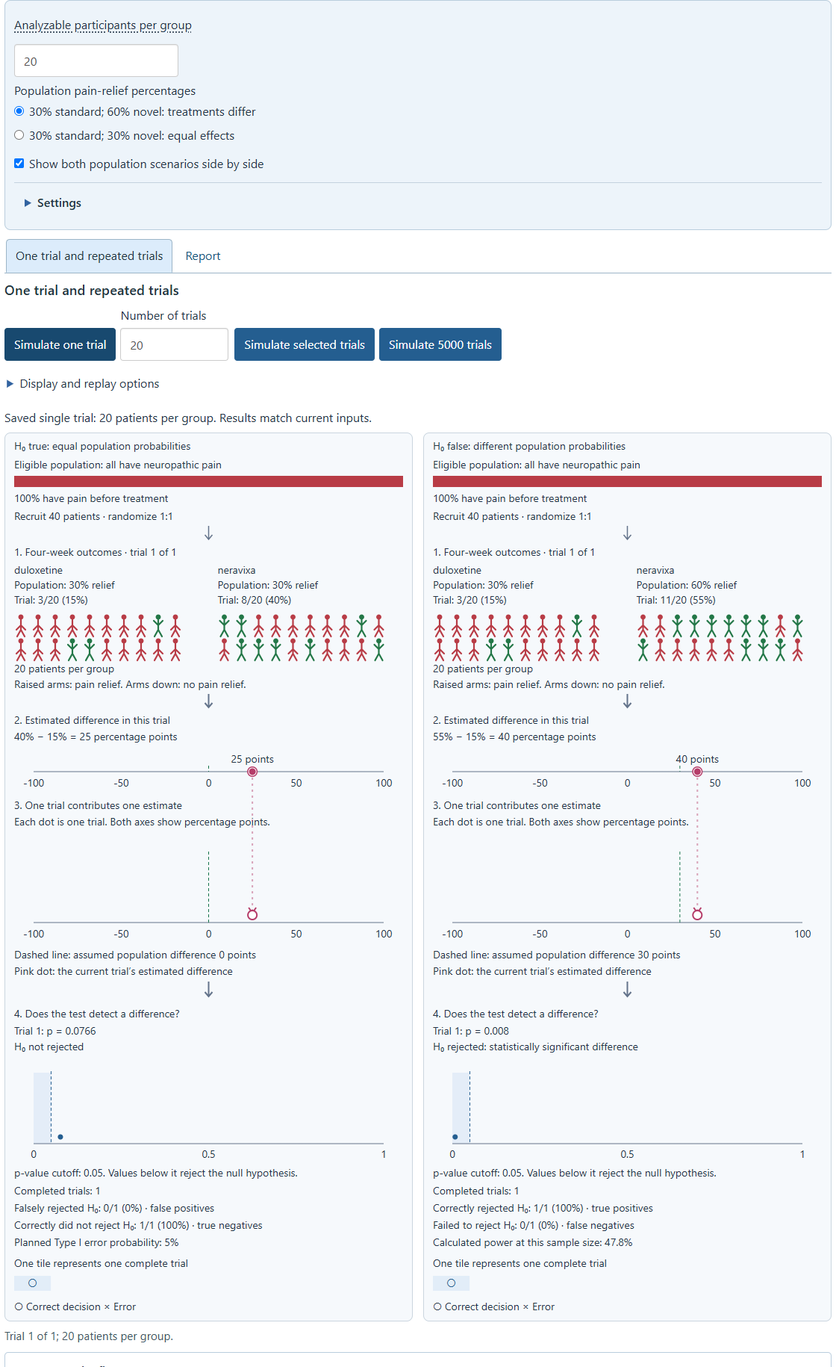
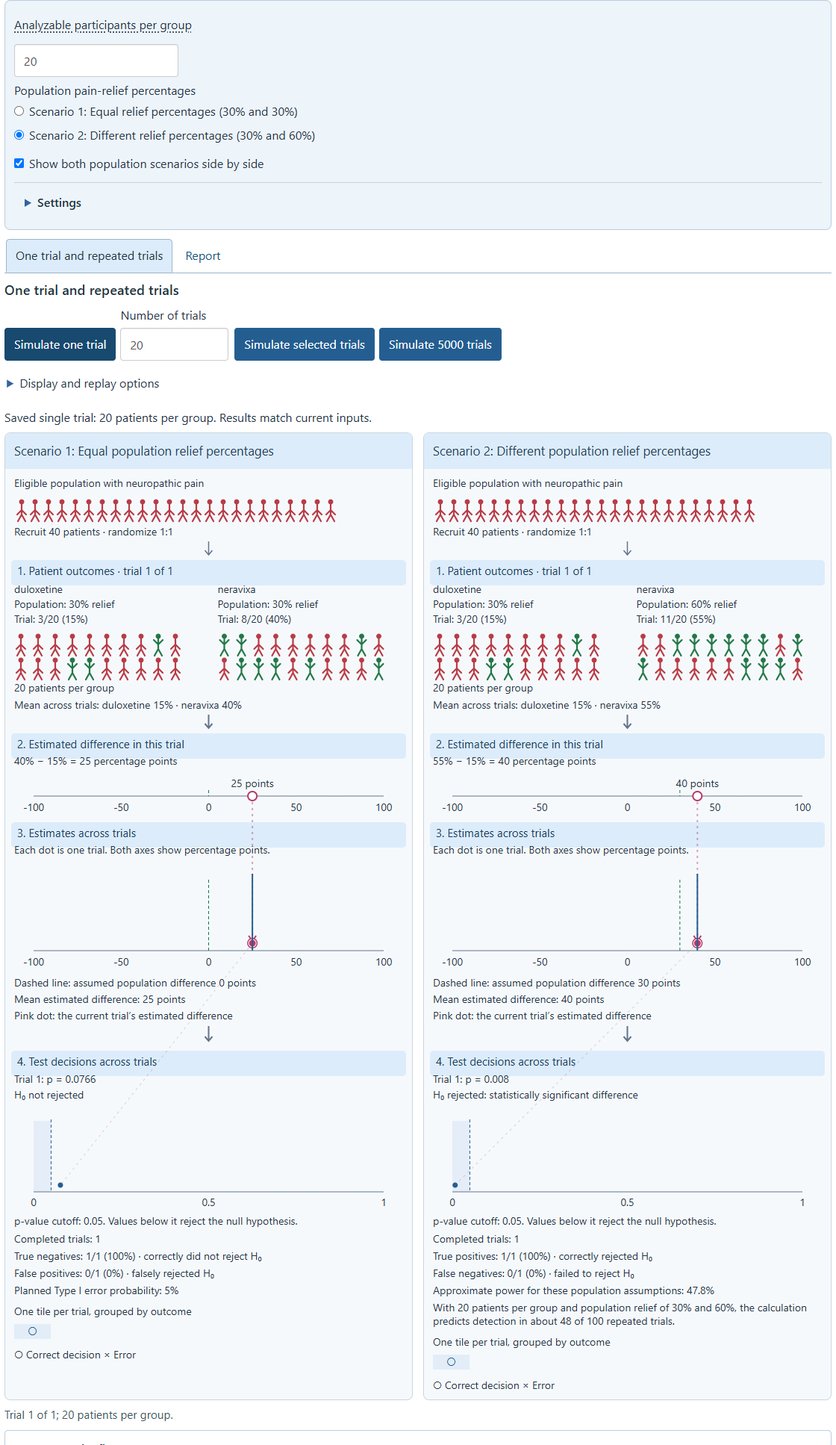
Unify Chapter 1 scenario figures and trial animation

diff --git a/apps/power_explorer/www/sampling-journey.js b/apps/power_explorer/www/sampling-journey.js
@@ -1,10 +1,11 @@
 /* Original implementation for this tutorial. MIT licensed. */
 (() => {
-  let data, index = 0, elapsed = 0, last = 0, raf, paused = false, stale = false, generation = 0, drawnIndex = -1, frameProgress = 0;
+  let data, index = 0, elapsed = 0, last = 0, raf, paused = false, stale = false, generation = 0, drawnIndex = -1, frameProgress = 0, drawnDecision = false;
   const el = id => document.getElementById(id);
   const ns = 'http://www.w3.org/2000/svg';
   const pct = x => `${Math.round(x * 1000) / 10}%`;
-  const point = x => 45 + (x + 1) * 205;
+  const average = values => values.reduce((a,b)=>a+b,0)/values.length;
+  const scenarioName = source => isNull(source)?'Scenario 1: Equal population relief percentages':'Scenario 2: Different population relief percentages';
   function node(svg, tag, attrs, text) {
     const n = document.createElementNS(ns, tag);
     Object.entries(attrs).forEach(([k,v]) => n.setAttribute(k,v));
@@ -19,31 +20,34 @@
   const decisionCorrect=(source,reject)=>isNull(source)?!reject:reject;
   function decisionSummary(source,decisions) {
     const n=decisions.length,rejected=decisions.filter(Boolean).length;
-    const fraction=k=>`${k}/${n} (${pct(k/n)})`;
+    const fraction=k=>n?`${k}/${n} (${pct(k/n)})`:'0/0';
     return isNull(source)?[
-      `Falsely rejected H₀: ${fraction(rejected)} · false positives`,
-      `Correctly did not reject H₀: ${fraction(n-rejected)} · true negatives`
+      `True negatives: ${fraction(n-rejected)} · correctly did not reject H₀`,
+      `False positives: ${fraction(rejected)} · falsely rejected H₀`
     ]:[
-      `Correctly rejected H₀: ${fraction(rejected)} · true positives`,
-      `Failed to reject H₀: ${fraction(n-rejected)} · false negatives`
+      `True positives: ${fraction(rejected)} · correctly rejected H₀`,
+      `False negatives: ${fraction(n-rejected)} · failed to reject H₀`
     ];
   }
+  function summary(source,progress) {
+    const complete=!!source.batch || (index===source.trials.length-1 && progress===1);
+    const count=source.batch?source.batch.estimates.length:index+(progress>=.9?1:0);
+    const trials=source.trials.slice(0,count);
+    return {complete,count,estimates:source.batch?source.batch.estimates:trials.map(t=>t.estimate),
+      decisions:source.batch?source.batch.reject:trials.map(t=>t.reject),
+      rates:source.batch?source.batch.relief_rates:[0,1].map(g=>trials.map(t=>t.counts[g]/source.n))};
+  }
   function interpretation(source,progress) {
-    const t=source.trials[index],labels=source.labels||['Standard','Novel'];
-    const truth=isNull(source);
+    const t=source.trials[index],labels=source.labels||['Standard','Novel'],info=summary(source,progress);
     const first=`Trial ${index+1}: ${t.counts[0]} of ${source.n} patients achieved pain relief with ${labels[0]}, and ${t.counts[1]} of ${source.n} with ${labels[1]}. The estimated difference is ${Math.round(t.estimate*1000)/10} percentage points.`;
-    if(!source.batch && source.trials.length===1)
-      return first+` Its p value ${pText(t.p_value)}. `+(truth?
-        (t.reject?'H₀ is falsely rejected: a false positive.':'H₀ is correctly not rejected: a true negative.'):
-        (t.reject?'H₀ is correctly rejected: a true positive.':'H₀ is not rejected despite a population difference: a false negative.'));
-    const trials=source.batch?source.batch.reject:source.trials.slice(0,index+1).map(t=>t.reject);
-    const detected=trials.filter(Boolean).length;
-    return `Across ${trials.length} trials with ${source.n} patients per group, `+
-      `${detected} detect a difference (${pct(detected/trials.length)}) and ${trials.length-detected} do not (${pct(1-detected/trials.length)}). `+
-      (truth?'These detections are false positives because the population relief percentages are equal.':
-      'These detections are true positives. Their percentage across many trials estimates power at the selected population difference and sample size.')+
-      (truth?` The planned Type I error probability is ${pct(source.alpha)}.`:` Calculated power for these assumptions is ${pct(source.expected)}.`)+
-      (source.batch?' The patient figures show the first trial in this batch.':' The patient figures show the latest displayed trial.');
+    if(!info.count)return first+' The moving point connects this trial’s estimate to its p value and test decision.';
+    const decisions=decisionSummary(source,info.decisions).join('. ')+'.';
+    if(info.count===1 && !source.batch)return first+` Its p value ${pText(t.p_value)}. `+decisions;
+    const mean=info.complete?` The mean estimated difference is ${Math.round(average(info.estimates)*1000)/10} percentage points. `+
+      (info.rates?`Mean relief across these trials is ${pct(average(info.rates[0]))} with ${labels[0]} and ${pct(average(info.rates[1]))} with ${labels[1]}. `:''):'';
+    const benchmark=isNull(source)?`The planned Type I error probability is ${pct(source.alpha)}.`:
+      `Approximate power is ${pct(source.expected)} for repeated trials with ${source.n} patients per group, population relief probabilities of ${pct(source.p0)} and ${pct(source.p1)}, and the selected test. The simulated true-positive percentage estimates the same repeated-trial probability.`;
+    return `Across ${info.count} completed trials with ${source.n} patients per group: `+decisions+mean+benchmark;
   }
   function draw(progress) {
     const host=el('sampling-journey');if(!host||!data)return;
@@ -54,10 +58,14 @@
     const sources=[data,data.comparison].filter(Boolean).sort((a,b)=>Number(!isNull(a))-Number(!isNull(b)));
     for(const source of sources) {
       const panel=document.createElement('div');panel.className='journey-scenario';host.append(panel);
-      drawInline(panel,progress,source);
+      const title=document.createElement('h3');title.className='journey-scenario-title';title.textContent=scenarioName(source);panel.append(title);
+      const chart=document.createElement('div');panel.append(chart);drawInline(chart,progress,source);
     }
-    if(el('journey-reading'))el('journey-reading').textContent=sources.map(source=>
-      (data.comparison?(isNull(source)?'Equal relief probabilities. ':'Different relief probabilities. '):'')+interpretation(source,progress)).join(' ');
+    const reading=el('journey-reading');
+    if(reading){reading.replaceChildren();reading.classList.toggle('journey-comparison',sources.length===2);
+      for(const source of sources){const section=document.createElement('section'),title=document.createElement('h4'),p=document.createElement('p');
+        title.textContent=scenarioName(source);p.textContent=interpretation(source,progress);section.append(title,p);reading.append(section);}}
+    drawnDecision=progress>=.9;
     drawnIndex=index;
   }
   const measureText = document.createElement('canvas').getContext('2d');
@@ -78,14 +86,24 @@
       }
       node(svg,'text',{x,y,style:'font-size:14px'},line); return y;
     }
-    const pain=data.event==='achieved pain relief', shown=Math.min(data.n,20);
-    let y=text(isNull(data)?'H₀ true: equal population probabilities':'H₀ false: different population probabilities',12,22);
-    y=text(pain?'Eligible population: all have neuropathic pain':'Eligible population before treatment',12,y+25);
-    node(svg,'rect',{x:12,y:y+10,width:width-24,height:15,fill:pain?colors.pain:colors.neutral,'data-population-bar':'true'});
-    y=text(pain?'100% have pain before treatment':'One outcome per participant',12,y+45);
-    y=text(`Recruit ${2*data.n} patients · randomize 1:1`,12,y+24);
+    function heading(label,y){
+      const band=node(svg,'rect',{x:8,y:y-20,width:width-16,height:34,rx:5,fill:'#dcecfb'});
+      const last=text(label,16,y,width-40);band.setAttribute('height',last-y+34);
+      const labelNode=svg.lastElementChild;labelNode.setAttribute('role','heading');labelNode.setAttribute('aria-level','4');labelNode.classList.add('journey-step-heading');return last;
+    }
+    function person(x,y,value,attrs={}) {
+      const color=value?colors.relief:colors.pain;
+      const g=node(svg,'g',{transform:`translate(${x} ${y})`,...attrs,stroke:color,fill:'none','stroke-width':2.2,'stroke-linecap':'round'});
+      node(g,'circle',{cx:0,cy:0,r:3.4,fill:color,stroke:'none'});
+      node(g,'path',{d:`M0 3.4V17 M0 17L-5 26 M0 17L5 26 ${value?'M-6 5L0 11L6 5':'M-6 17L0 11L6 17'}`});
+    }
+    const info=summary(data,progress),pain=data.event==='achieved pain relief', shown=Math.min(data.n,40);
+    let y=text(pain?'Eligible population with neuropathic pain':'Eligible population',12,24);
+    const populationCount=Math.min(24,Math.floor((width-30)/18));
+    for(let i=0;i<populationCount;i++)person(22+i*18,y+20,false,{'data-population-patient':i+1});
+    y=text(`Recruit ${2*data.n} patients · randomize 1:1`,12,y+65);
     node(svg,'path',{d:`M${width/2} ${y+8} v18 m-5 -6 l5 6 l5 -6`,fill:'none',stroke:colors.neutral,'stroke-width':1.5});
-    y=text(`1. ${pain?'Four-week':'Patient'} outcomes · trial ${index+1} of ${data.batch ? data.batch.estimates.length : data.trials.length}`,12,y+48);
+    y=heading(`1. Patient outcomes · trial ${index+1} of ${data.batch ? data.batch.estimates.length : data.trials.length}`,y+53);
     const cols=Math.max(4,Math.min(10,Math.floor((width/2-24)/23))), rows=Math.ceil(shown/cols);
     const top=y+24;
     let groupBottom=top;
@@ -94,26 +112,31 @@
       let groupY=text(labels[g],x,top,width/2-24);
       groupY=text(`Population: ${pct(g?data.p1:data.p0)} ${pain?'relief':'event'}`,x,groupY+20,width/2-24);
       groupY=text(`Trial: ${t.counts[g]}/${data.n} (${pct(t.counts[g]/data.n)})`,x,groupY+20,width/2-24);
-      values.slice(0,shown).forEach((v,i)=>{
-        const person=node(svg,'g',{transform:`translate(${x+9+(i%cols)*23} ${groupY+18+Math.floor(i/cols)*32})`,
-          'data-patient':i+1,'data-group':g,'data-outcome':v?'relief':'pain',stroke:v?colors.relief:colors.pain,fill:'none','stroke-width':2.2,'stroke-linecap':'round'});
-        node(person,'circle',{cx:0,cy:0,r:3.4,fill:v?colors.relief:colors.pain,stroke:'none'});
-        node(person,'path',{d:`M0 3.4V17 M0 17L-5 26 M0 17L5 26 ${v?'M-6 5L0 11L6 5':'M-6 17L0 11L6 17'}`});
-      });
-      groupBottom=Math.max(groupBottom,groupY+18+rows*32);
+      if(data.n<=40){
+        values.forEach((v,i)=>person(x+9+(i%cols)*23,groupY+18+Math.floor(i/cols)*32,v,
+          {'data-patient':i+1,'data-group':g,'data-outcome':v?'relief':'pain'}));
+        groupBottom=Math.max(groupBottom,groupY+18+rows*32);
+      }else{
+        const bw=width/2-30, relief=t.counts[g]/data.n;
+        const bar=node(svg,'g',{'data-outcome-bar':g,'data-relief-count':t.counts[g],'data-total':data.n});
+        node(bar,'rect',{x,y:groupY+18,width:bw,height:27,fill:colors.pain});
+        node(bar,'rect',{x,y:groupY+18,width:bw*relief,height:27,fill:colors.relief});
+        groupY=text(`${t.counts[g]} ${pain?'relief':'events'} · ${data.n-t.counts[g]} ${pain?'no relief':'no event'}`,x,groupY+66,width/2-24);
+        groupBottom=Math.max(groupBottom,groupY+8);
+      }
     });
     y=text(`${data.n} patients per group`,12,groupBottom+10);
-    y=text(pain?'Raised arms: pain relief. Arms down: no pain relief.':'Raised arms: event. Arms down: no event.',12,y+21);
-    if(data.n>shown)y=text(`First ${shown} shown per group. Counts include everyone.`,12,y+21);
+    if(info.complete && info.rates) y=text(`Mean across trials: ${labels[0]} ${pct(average(info.rates[0]))} · ${labels[1]} ${pct(average(info.rates[1]))}`,12,y+23);
     node(svg,'path',{d:`M${width/2} ${y+8} v18 m-5 -6 l5 6 l5 -6`,fill:'none',stroke:'#64748b','stroke-width':2});
-    y=text('2. Estimated difference in this trial',12,y+48);
+    y=heading('2. Estimated difference in this trial',y+53);
     y=text(`${pct(t.counts[1]/data.n)} − ${pct(t.counts[0]/data.n)} = ${Math.round(t.estimate*1000)/10} percentage points`,12,y+22);
     const axis1=y+42;
-    y=text(data.batch ? '3. Estimates across the full batch' : data.trials.length===1 ? '3. One trial contributes one estimate' : '3. Estimates from the repeated trials',12,axis1+50);
+    y=heading('3. Estimates across trials',axis1+55);
     y=text(data.batch ? `${data.batch.estimates.length} trials, each with ${data.n} patients per group` : 'Each dot is one trial. Both axes show percentage points.',12,y+22);
     const stackCounts={};
     data.trials.slice(0,index+1).forEach(t=>{const key=Math.round(t.estimate*1000000);stackCounts[key]=(stackCounts[key]||0)+1;});
     let axis2=y+Math.max(130,30+5*Math.max(...Object.values(stackCounts)));
+    const distributionAxis=axis2;
     const bins={},positions=[];
     for(let i=0;i<=index;i++){
       const v=data.trials[i].estimate,key=Math.round(v*1000000),level=bins[key]||0;
@@ -151,22 +174,27 @@
       node(svg,'line',{x1:x,x2:x,y1:axis1,y2:destination,stroke:'#b53c69','stroke-width':2,'stroke-dasharray':'3 5',opacity:.45});
       node(svg,'path',{d:`M${x-5} ${destination-10} L${x} ${destination-3} L${x+5} ${destination-10}`,fill:'none',stroke:'#b53c69','stroke-width':2});
       [axis1,destination].forEach(yy=>node(svg,'circle',{cx:x,cy:yy,r:6,fill:'white',stroke:'#b53c69','stroke-width':2}));
-      const phase=Math.max(0,Math.min(1,(progress-.35)/.5));
-      const moving=el('journey-motion').checked?(progress<.85?0:1):phase*phase*(3-2*phase);
+      const phase=Math.max(0,Math.min(1,(progress-.15)/.35));
+      const moving=el('journey-motion').checked?(progress<.5?0:1):phase*phase*(3-2*phase);
       node(svg,'circle',{cx:x,'data-moving-estimate':'true','data-motion-start':axis1,'data-motion-end':destination,cy:axis1+(destination-axis1)*moving,r:5,fill:'#b53c69',stroke:'white','stroke-width':1});
     }
     node(svg,'text',{x:Math.max(48,Math.min(width-48,x)),y:axis1-12,'text-anchor':'middle',style:'font-size:14px'},`${Math.round(t.estimate*1000)/10} points`);
+    if(info.complete && info.estimates.length){
+      const mean=average(info.estimates);
+      node(svg,'line',{x1:at(mean),x2:at(mean),y1:distributionAxis-103,y2:distributionAxis,stroke:colors.correct,'stroke-width':2,'data-mean-estimate':mean});
+    }
     y=text(`Dashed line: assumed population difference ${Math.round((data.p1-data.p0)*1000)/10} points`,12,axis2+48);
+    if(info.complete && info.estimates.length)y=text(`Mean estimated difference: ${Math.round(average(info.estimates)*1000)/10} points`,12,y+22);
     y=text(data.batch ? 'Pink dots: the first trial, included in this batch' : 'Pink dot: the current trial’s estimated difference',12,y+22);
     node(svg,'path',{d:`M${width/2} ${y+9} v20 m-5 -6 l5 6 l5 -6`,fill:'none',stroke:'#64748b','stroke-width':2});
-    y=text('4. Does the test detect a difference?',12,y+57);
-    const values=data.batch?data.batch.p_values:data.trials.slice(0,index+1).map(t=>t.p_value);
-    const decisions=data.batch?data.batch.reject:data.trials.slice(0,index+1).map(t=>t.reject);
+    y=heading('4. Test decisions across trials',y+62);
+    const values=data.batch?data.batch.p_values:data.trials.slice(0,info.count).map(t=>t.p_value);
+    const decisions=info.decisions;
     const detected=decisions.filter(Boolean).length, px=p=>38+p*(width-76), cutoff=px(data.alpha);
-    y=text(`Trial ${index+1}: p ${pText(t.p_value)}`,12,y+23);
-    y=text(t.reject?'H₀ rejected: statistically significant difference':'H₀ not rejected',12,y+21);
+    y=text(progress>=.9 || data.batch?`Trial ${index+1}: p ${pText(t.p_value)}`:'The same trial now contributes its p value',12,y+23);
+    y=text(progress>=.9 || data.batch?(t.reject?'H₀ rejected: statistically significant difference':'H₀ not rejected'):'Each trial produces one test decision',12,y+21);
     const pStacks={};values.forEach(p=>{const key=Math.round(p*1000);pStacks[key]=(pStacks[key]||0)+1;});
-    const pAxis=y+(data.batch?150:Math.max(125,30+7*Math.max(...Object.values(pStacks))));
+    const pAxis=y+(data.batch?150:Math.max(125,30+7*Math.max(1,...Object.values(pStacks))));
     node(svg,'rect',{x:38,y:pAxis-95,width:cutoff-38,height:95,fill:'#e4edf8'});
     if(data.batch) {
       const bins=Array(40).fill(0),correctBins=Array(40).fill(0);
@@ -182,11 +210,20 @@
         node(bar,'rect',{x:px(i/40),y:pAxis-good/max*80,width:bw,height:good/max*80,fill:colors.correct,stroke:'white'});
         node(bar,'rect',{x:px(i/40),y:pAxis-n/max*80,width:bw,height:bad/max*80,fill:colors.error,stroke:'white'});
       });
-      text(`Highest bar: ${max} trials`,12,y+45);
+      text('Number of trials',12,y+45);
+      [0,Math.ceil(max/2),max].forEach(n=>node(svg,'text',{x:35,y:pAxis-n/max*80+4,'text-anchor':'end',style:'font-size:11px'},String(n)));
+      node(svg,'line',{x1:38,x2:38,y1:pAxis-80,y2:pAxis,stroke:colors.neutral});
     } else {
       const bins={};
       values.forEach((p,i)=>{if(!Number.isFinite(p))return;const key=Math.round(p*1000),level=bins[key]||0;bins[key]=level+1;
         node(svg,'circle',{cx:px(p),cy:pAxis-9-level*7,r:3.5,fill:decisionCorrect(data,decisions[i])?colors.correct:colors.error,'data-pvalue-trial':i+1,'data-pvalue':p});});
+    }
+    if(!data.batch && Number.isFinite(t.p_value)){
+      const destination=positions[index],end={x:px(t.p_value),y:pAxis-9-Math.max(0,(pStacks[Math.round(t.p_value*1000)]||0)-(progress>=.9?1:0))*7};
+      node(svg,'path',{d:`M${destination.x} ${destination.y} L${end.x} ${end.y}`,fill:'none',stroke:'#b53c69','stroke-dasharray':'3 5',opacity:.25,'data-decision-path':'true'});
+      const phase=Math.max(0,Math.min(1,(progress-.55)/.35)),motion=el('journey-motion').checked?(progress<.9?0:1):phase*phase*(3-2*phase);
+      node(svg,'circle',{'data-moving-decision':'true','data-start-x':destination.x,'data-start-y':destination.y,'data-end-x':end.x,'data-end-y':end.y,
+        cx:destination.x+(end.x-destination.x)*motion,cy:destination.y+(end.y-destination.y)*motion,r:5,fill:'#b53c69',stroke:'white',opacity:progress>=.5 && progress<.9?1:0});
     }
     node(svg,'line',{x1:38,x2:width-38,y1:pAxis,y2:pAxis,stroke:'#64748b'});
     node(svg,'line',{x1:cutoff,x2:cutoff,y1:pAxis-97,y2:pAxis,stroke:'#245e90','stroke-dasharray':'4 3'});
@@ -194,12 +231,13 @@
     y=text(`p-value cutoff: ${data.alpha}. Values below it reject the null hypothesis.`,12,pAxis+44);
     y=text(`Completed trials: ${values.length}`,12,y+24);
     for(const line of decisionSummary(data,decisions))y=text(line,12,y+23);
-    y=text(isNull(data)?`Planned Type I error probability: ${pct(data.alpha)}`:`Calculated power at this sample size: ${pct(data.expected)}`,12,y+23);
-    const tiles=decisions.slice(-100),tileCols=10,tileWidth=(width-24)/tileCols,tileHeight=23;
-    y=text(tiles.length<decisions.length?'Latest 100 trial decisions · one tile per trial':'One tile represents one complete trial',12,y+28);
+    y=text(isNull(data)?`Planned Type I error probability: ${pct(data.alpha)}`:`Approximate power for these population assumptions: ${pct(data.expected)}`,12,y+23);
+    if(!isNull(data))y=text(`With ${data.n} patients per group and population relief of ${pct(data.p0)} and ${pct(data.p1)}, the calculation predicts detection in about ${Math.round(100*data.expected)} of 100 repeated trials.`,12,y+23);
+    const tiles=decisions.slice(-100).sort((a,b)=>Number(decisionCorrect(data,b))-Number(decisionCorrect(data,a))),tileCols=10,tileWidth=(width-24)/tileCols,tileHeight=23;
+    y=text(tiles.length<decisions.length?'Latest 100 trial decisions, grouped by outcome':'One tile per trial, grouped by outcome',12,y+28);
     tiles.forEach((reject,i)=>{
       const correct=decisionCorrect(data,reject),tx=12+(i%tileCols)*tileWidth,ty=y+12+Math.floor(i/tileCols)*tileHeight;
-      const tile=node(svg,'g',{'data-decision-trial':decisions.length-tiles.length+i+1,'data-correct':String(correct)});
+      const tile=node(svg,'g',{'data-decision-trial':i+1,'data-correct':String(correct)});
       node(tile,'rect',{x:tx,y:ty,width:tileWidth-3,height:tileHeight-3,fill:correct?colors.correctFill:colors.errorFill});
       node(tile,'text',{x:tx+(tileWidth-3)/2,y:ty+15,'text-anchor':'middle',style:`fill:${correct?colors.correct:colors.error};font-size:15px`},correct?'○':'×');
     });
@@ -221,11 +259,16 @@
   const duration=()=>el('journey-motion').checked?45:el('journey-speed')?.value==='fast'?1100:3200;
   function moveEstimate(progress) {
     frameProgress=progress;
-    const phase=Math.max(0,Math.min(1,(progress-.35)/.5));
-    const moving=el('journey-motion').checked?(progress<.85?0:1):phase*phase*(3-2*phase);
+    const phase=Math.max(0,Math.min(1,(progress-.15)/.35));
+    const moving=el('journey-motion').checked?(progress<.5?0:1):phase*phase*(3-2*phase);
     el('sampling-journey').querySelectorAll('[data-moving-estimate]').forEach(dot=>{
       const start=Number(dot.dataset.motionStart),end=Number(dot.dataset.motionEnd);
       dot.setAttribute('cy',start+(end-start)*moving);
+    });
+    const phase2=Math.max(0,Math.min(1,(progress-.55)/.35)),step2=el('journey-motion').checked?(progress<.9?0:1):phase2*phase2*(3-2*phase2);
+    el('sampling-journey').querySelectorAll('[data-moving-decision]').forEach(dot=>{
+      const d=dot.dataset;dot.setAttribute('cx',Number(d.startX)+(Number(d.endX)-Number(d.startX))*step2);
+      dot.setAttribute('cy',Number(d.startY)+(Number(d.endY)-Number(d.startY))*step2);dot.setAttribute('opacity',progress>=.5&&progress<.9?1:0);
     });
   }
   function tick(now,token) {
@@ -235,7 +278,7 @@
       if(index<data.trials.length-1){index++;elapsed=0;status();}
       else {elapsed=duration();draw(1);el('journey-pause').disabled=true;el('journey-finish').disabled=true;return;}
     }
-    if(drawnIndex!==index)draw(elapsed/duration());else moveEstimate(elapsed/duration());
+    if(drawnIndex!==index || drawnDecision!==(elapsed/duration()>=.9))draw(elapsed/duration());else moveEstimate(elapsed/duration());
     raf=requestAnimationFrame(now=>tick(now,token));
   }
   function stop(){generation++;cancelAnimationFrame(raf);last=0;}
@@ -254,6 +297,7 @@
     el('journey-finish').onclick=()=>{if(!data || data.batch)return;stop();index=data.trials.length-1;elapsed=duration();paused=false;draw(1);status();el('journey-pause').disabled=true;el('journey-finish').disabled=true;};
     Shiny.addCustomMessageHandler('lab-report-context',payload=>{
       document.documentElement.classList.toggle('unified-sampling',payload.core);
+      ['download_many','download_plan_json','download_code'].forEach(id=>el(id)?.closest('details')?.classList.add('journey-download-only'));
       el('report-question-heading').textContent='Explain your decision';
       el('study-plan-guidance').hidden=payload.core;
       const field=el('justification'), label=document.querySelector('label[for="justification"]');
@@ -301,7 +345,7 @@
       let combined=el('combined-many-studies');
       if(payload.combine && !combined){
         combined=document.createElement('details');combined.id='combined-many-studies';combined.className='activity-details';
-        const summary=document.createElement('summary');summary.textContent='Results and downloads for repeated trials';
+        const summary=document.createElement('summary');summary.textContent='Numerical results for repeated trials';
         const content=document.createElement('div');content.className='combined-content';content.append(...manyPanel.childNodes);
         combined.append(summary,content);onePanel.append(combined);
         onePanel.querySelector('.simulation-actions').append(el('run_many'));

diff --git a/apps/power_explorer/www/sampling-journey.css b/apps/power_explorer/www/sampling-journey.css
@@ -4,6 +4,12 @@
 .tutorial-embedded #sampling-journey.journey-comparison {max-width:none}
 .journey-scenario{min-width:0;background:#f6f9fc;border-radius:8px}
 .journey-comparison .journey-scenario{border:1px solid #cad5df}
+.journey-scenario-title{font-size:1.05rem!important;font-weight:400!important;line-height:1.4;margin:0!important;padding:12px;background:#dcecfb;border-radius:8px 8px 0 0;color:#233e59}
+#sampling-journey .journey-step-heading{font-size:15px!important;font-weight:400;fill:#193b5c}
+#journey-reading.journey-comparison{display:grid;grid-template-columns:repeat(2,minmax(0,1fr));gap:14px}
+#journey-reading section{min-width:0;padding:10px 12px;background:#eef5fc;border-radius:6px}
+#journey-reading h4{font-weight:400;font-size:1rem;line-height:1.4}
+.unified-sampling :is(.report-downloads,.shiny-download-link,.journey-download-only){display:none!important}
 .repeat-trial-controls{display:flex;flex-wrap:wrap;gap:8px;align-items:end}
 .repeat-trial-controls .shiny-input-container{width:145px!important;margin:0}
 .simulation-actions{align-items:end!important}
@@ -12,7 +18,7 @@
 .playback-controls label{font-size:.88rem;margin:0}
 .pain-focus .legacy-p-values{display:none}
 .pain-focus:not(.lab-expanded) #scenario_summary{display:none}
-@media(max-width:540px){#sampling-journey.journey-comparison{grid-template-columns:minmax(0,1fr)}}
+@media(max-width:540px){#sampling-journey.journey-comparison,#journey-reading.journey-comparison{grid-template-columns:minmax(0,1fr)}}
 .journey-playback{margin:8px 0 12px}
 .journey-playback summary{font-weight:400}
 .playback-controls select{min-height:36px;padding:4px 8px;border:1px solid #718096;border-radius:4px;background:white;color:#243447}

diff --git a/site/assumptions_report/plan-workflow.js b/site/assumptions_report/plan-workflow.js
@@ -36,6 +36,10 @@
     form=f;fields=definitions;groups=sections;
     for(const name of metaNames.filter(n=>!form.elements[n])){const input=element('input');input.type='hidden';input.name=name;form.append(input);}
     const advanced=document.getElementById('advanced-plan');
+    // This control only expands fields in the current report.
+    advanced.querySelector('summary').addEventListener('click',event=>{
+      event.preventDefault();event.stopPropagation();advanced.open=!advanced.open;
+    });
     advanced.addEventListener('toggle',()=>{
       const level=advanced.open?'advanced':'core';
       if(form.elements.plan_level.value===level)return;

diff --git a/site/assumptions_report/index.html b/site/assumptions_report/index.html
@@ -10,7 +10,7 @@
   <script src="../input-guidance.js" defer></script>
   <script src="../app-layout.js" defer></script>
   <script src="../report-exports.js" defer></script>
-  <script src="plan-workflow.js?v=20261124" defer></script>
+  <script src="plan-workflow.js?v=20261124-local-prompts" defer></script>
   <script src="calculation-record.js?v=20261124-report" defer></script>
   <script src="advanced-design.js" defer></script>
   <script src="report-references.js" defer></script>

diff --git a/teaching/TEACHING_GUIDE.md b/teaching/TEACHING_GUIDE.md
@@ -98,7 +98,7 @@ For a selected activity, learners should have a chance to formulate an individua
 | Report revision | 3 minutes | What would you now change in the plan, and why? | A justified decision and remaining uncertainty |
 | Brief debrief | 2 minutes | Which point still needs clarification? | A specific learning need for follow-up |
 
-In [the one-study and many-studies activity](https://katatam.github.io/sample-size-calculation/book/clinical-question.html#activity-pain_one_many), equal and different population relief probabilities appear side by side. Patient stick figures lead to each trial's estimate and test decision. Amber crosses identify errors, and blue circles identify correct decisions. Comparing larger samples while holding population probabilities and analysis fixed shows reduced sampling variability and increased power at a specified nonzero difference. More repetitions stabilize the observed percentages of trial decisions while each trial retains the same design. The chapter's 95/5 and 90/10 grids illustrate expected frequencies. The app displays the counts it simulates at the selected sample size.
+In [the one-study and many-studies activity](https://katatam.github.io/sample-size-calculation/book/clinical-question.html#activity-pain_one_many), equal and different population relief probabilities appear side by side. Eligible patients and sampled outcomes use stick figures, with proportion bars for groups above 40. Each trial’s estimate is animated into the sampling distribution and then into its p value. Runs above 20 trials appear immediately. Correct decisions precede errors, and separate interpretations summarize each scenario and its mean estimates. This introductory simulation has no download controls. Amber crosses identify errors, and blue circles identify correct decisions. Comparing larger samples while holding population probabilities and analysis fixed shows reduced sampling variability and increased power at a specified nonzero difference. More repetitions stabilize the observed percentages of trial decisions while each trial retains the same design. The chapter's 95/5 and 90/10 grids illustrate expected frequencies. The app displays the counts it simulates at the selected sample size.
 
 In the [two-proportion calculator](https://katatam.github.io/sample-size-calculation/two_proportions/) or [two-mean calculator](https://katatam.github.io/sample-size-calculation/two_means/), the visible sequence is calculate, compare one assumption and justify. “Compare two scenarios” retains the original calculation. For two means, a 3-unit difference with SD 5 requires 60 analyzable participants per group at 90% power and a two-sided 5% Type I error probability. Changing only the SD to 7 gives 116 per group. A learner can predict this direction before revealing the comparison. A partner should verify the assumptions, method and counts, then discuss which SD the evidence supports. The selected scenario and the learner's written reason appear together in the report and can be added to the continuing sample size calculation report.
 

diff --git a/student-materials/activity-walkthroughs.md b/student-materials/activity-walkthroughs.md
@@ -74,7 +74,7 @@ Purpose: see why sample estimates differ from population values, interpret the u
 
 1. Two population scenarios appear side by side: 30% relief with each treatment, and 30% with duloxetine versus 60% with neravixa. Both start with 20 patients per group and a 5% Type I error probability. The red population bar indicates that all eligible patients have neuropathic pain before treatment.
 2. “Simulate one trial” follows patient outcomes through four steps: outcomes, estimated difference, estimates across trials, and the p value and test decision.
-3. The repetition field starts at 20. “Simulate selected trials” animates up to 100 trials. Larger selected counts appear together as distributions. “Simulate 5000 trials” provides a quick view of repeated performance.
+3. The repetition field starts at 20. “Simulate selected trials” animates up to 20 trials. Larger selected counts appear immediately as distributions. Up to 40 patients per group appear as stick figures. Larger groups use red/green bars with exact outcome counts. Correct decisions precede errors in both scenario grids. Each scenario has its own interpretation, with mean relief percentages and the mean estimated difference after a completed run. “Simulate 5000 trials” provides a quick view of repeated performance.
 4. Red stick figures show patients without pain relief, and green figures with raised arms show patients who achieved relief. Each trial's estimate and p value come from those patient outcomes. Blue circles mark correct test decisions, and amber crosses mark errors. Counts and percentages summarize both decisions in each population scenario.
 5. “Display and replay options” contains Pause, Replay, “Finish this batch,” animation speed and reduced motion. “Reset results” clears the simulations while keeping the input settings. Increasing the sample from 20 to 50 per group and generating another batch overlays the earlier estimates for comparison.
 6. “Interpret the figure” describes the displayed trial or batch. “Report” records the assumptions, the first trial's patient counts, repeated results and any comparison population. Reports can be downloaded as PDF or editable Word. The R script reproduces the current assumptions and selected repetition count.
